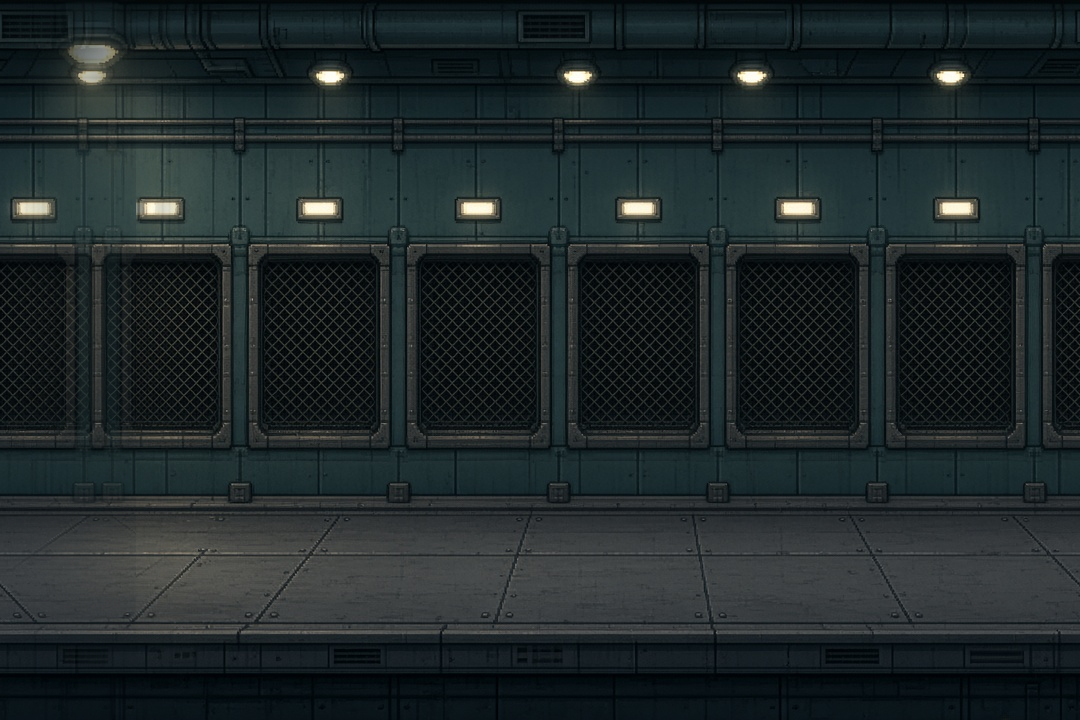
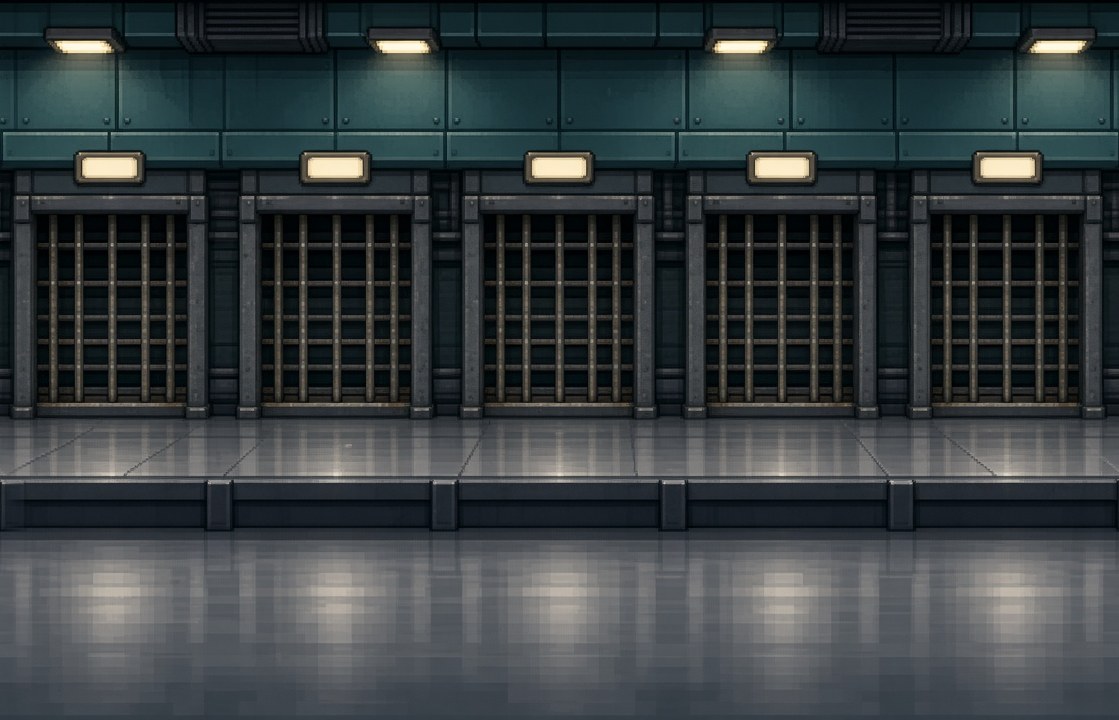
ART-20: replace rope loops in training-mid, tile corridor/training without ghosting

diff --git a/art-src/ART-REQUEST-20-FIX-REPORT.md b/art-src/ART-REQUEST-20-FIX-REPORT.md
@@ -21,3 +21,9 @@
 - `training-mid.png` 內垂掛繩圈輪廓似吊繩圈，建議 Manus／Alan 決定是否改為掛鉤或盤繩；我未擅自改設計。
 - 保安及蜜僵 walk 已拉開步幅，但仍屬 AI 生成姿勢，建議用實際速度播放再確認。
 - 未改 model-sheet 以外的 `public/`、`src/`、`data/`。
+
+## 第二輪（吊繩圈與中景接縫）
+- `training-mid.png`：重畫，改為裸鐵掛鉤、器材架、藍球與雪糕筒，完全沒有繩圈；635×720，已裁成完整週期。
+- `corridor-mid.png`：重畫並裁成完整週期，1119×720。
+- 兩張都以 32px 混合接駁（舊版 200px 混合造成疊影已移除）；並排三次目視無重影、無硬切。
+- 未驗證：未在遊戲內實際平鋪；兩張寬度不再是 1280／1080，整合方需按新寬度平鋪。
